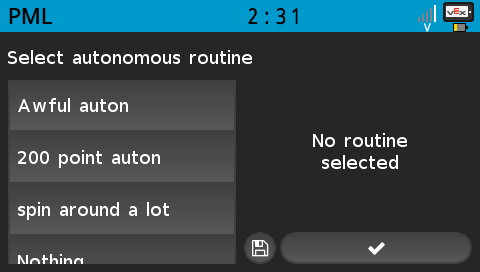
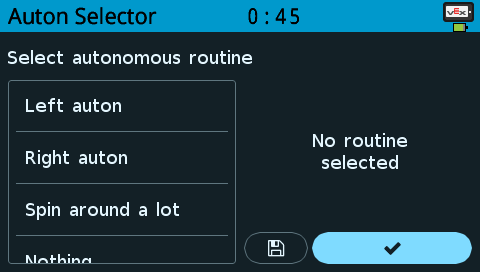
New README & example image
Rebrand, make README better, and add an updated picture

diff --git a/README.md b/README.md
@@ -1,33 +1,14 @@
 > ## ⚠ Work in progress
 > This project is a work in progress and is very unfinished. Do not depend on this library for competition purposes until a stable release is available.
 
-# Pros Multitool Library
-Pros Multitool Library (Name will change) is a PROS library that does autonomous selection and other UI things.
+# selectlib
+A game-agnostic autonomous selector for the VEX V5 platform
 
-<details open>
-<summary>Selection screen</summary>
+<details closed>
+<summary><b>Preview</b></summary>
 <img src="./assets/selector.png">
 </details>
 
-<details open>
-<summary>Virtual LCD</summary>
-<img src="./assets/lcd.png">
-</details>
-
-## Why?
-This library was created for those who want a easy to use, elegant UI for VRC. It aims to do all the UI work for you, so you can focus on programming and tuning the important aspects of your robot (PID, Odometry, etc.). It is also designed to be a step-up from llemu, taking more advantage of the v5 brain's capabilties and looking a bit better.
-
-## Roadmap 
-
-### 1.0 (Initial release)
-Initial release will be compatible with versions of PROS 3 that include LVGL.
-Feature list:
-- [x] Autonomous program selector
-- [x] Virtual LCD/console w/ Action buttons
-- [ ] Elegant UI
-
-### 2.0 
-The second major release will be compatible with versions of PROS where LVGL is not bundled, as well as VEXCode Pro V5.
-Feature list:
-- [ ] Cross compatibility with VEXCode Pro V5
-- [ ] Vertical screen mode
+### Features
+- **Automatic selection** - loads previous selection from an SD card automatically
+- **Customizable UI** - Easily change the color theme with one color value
